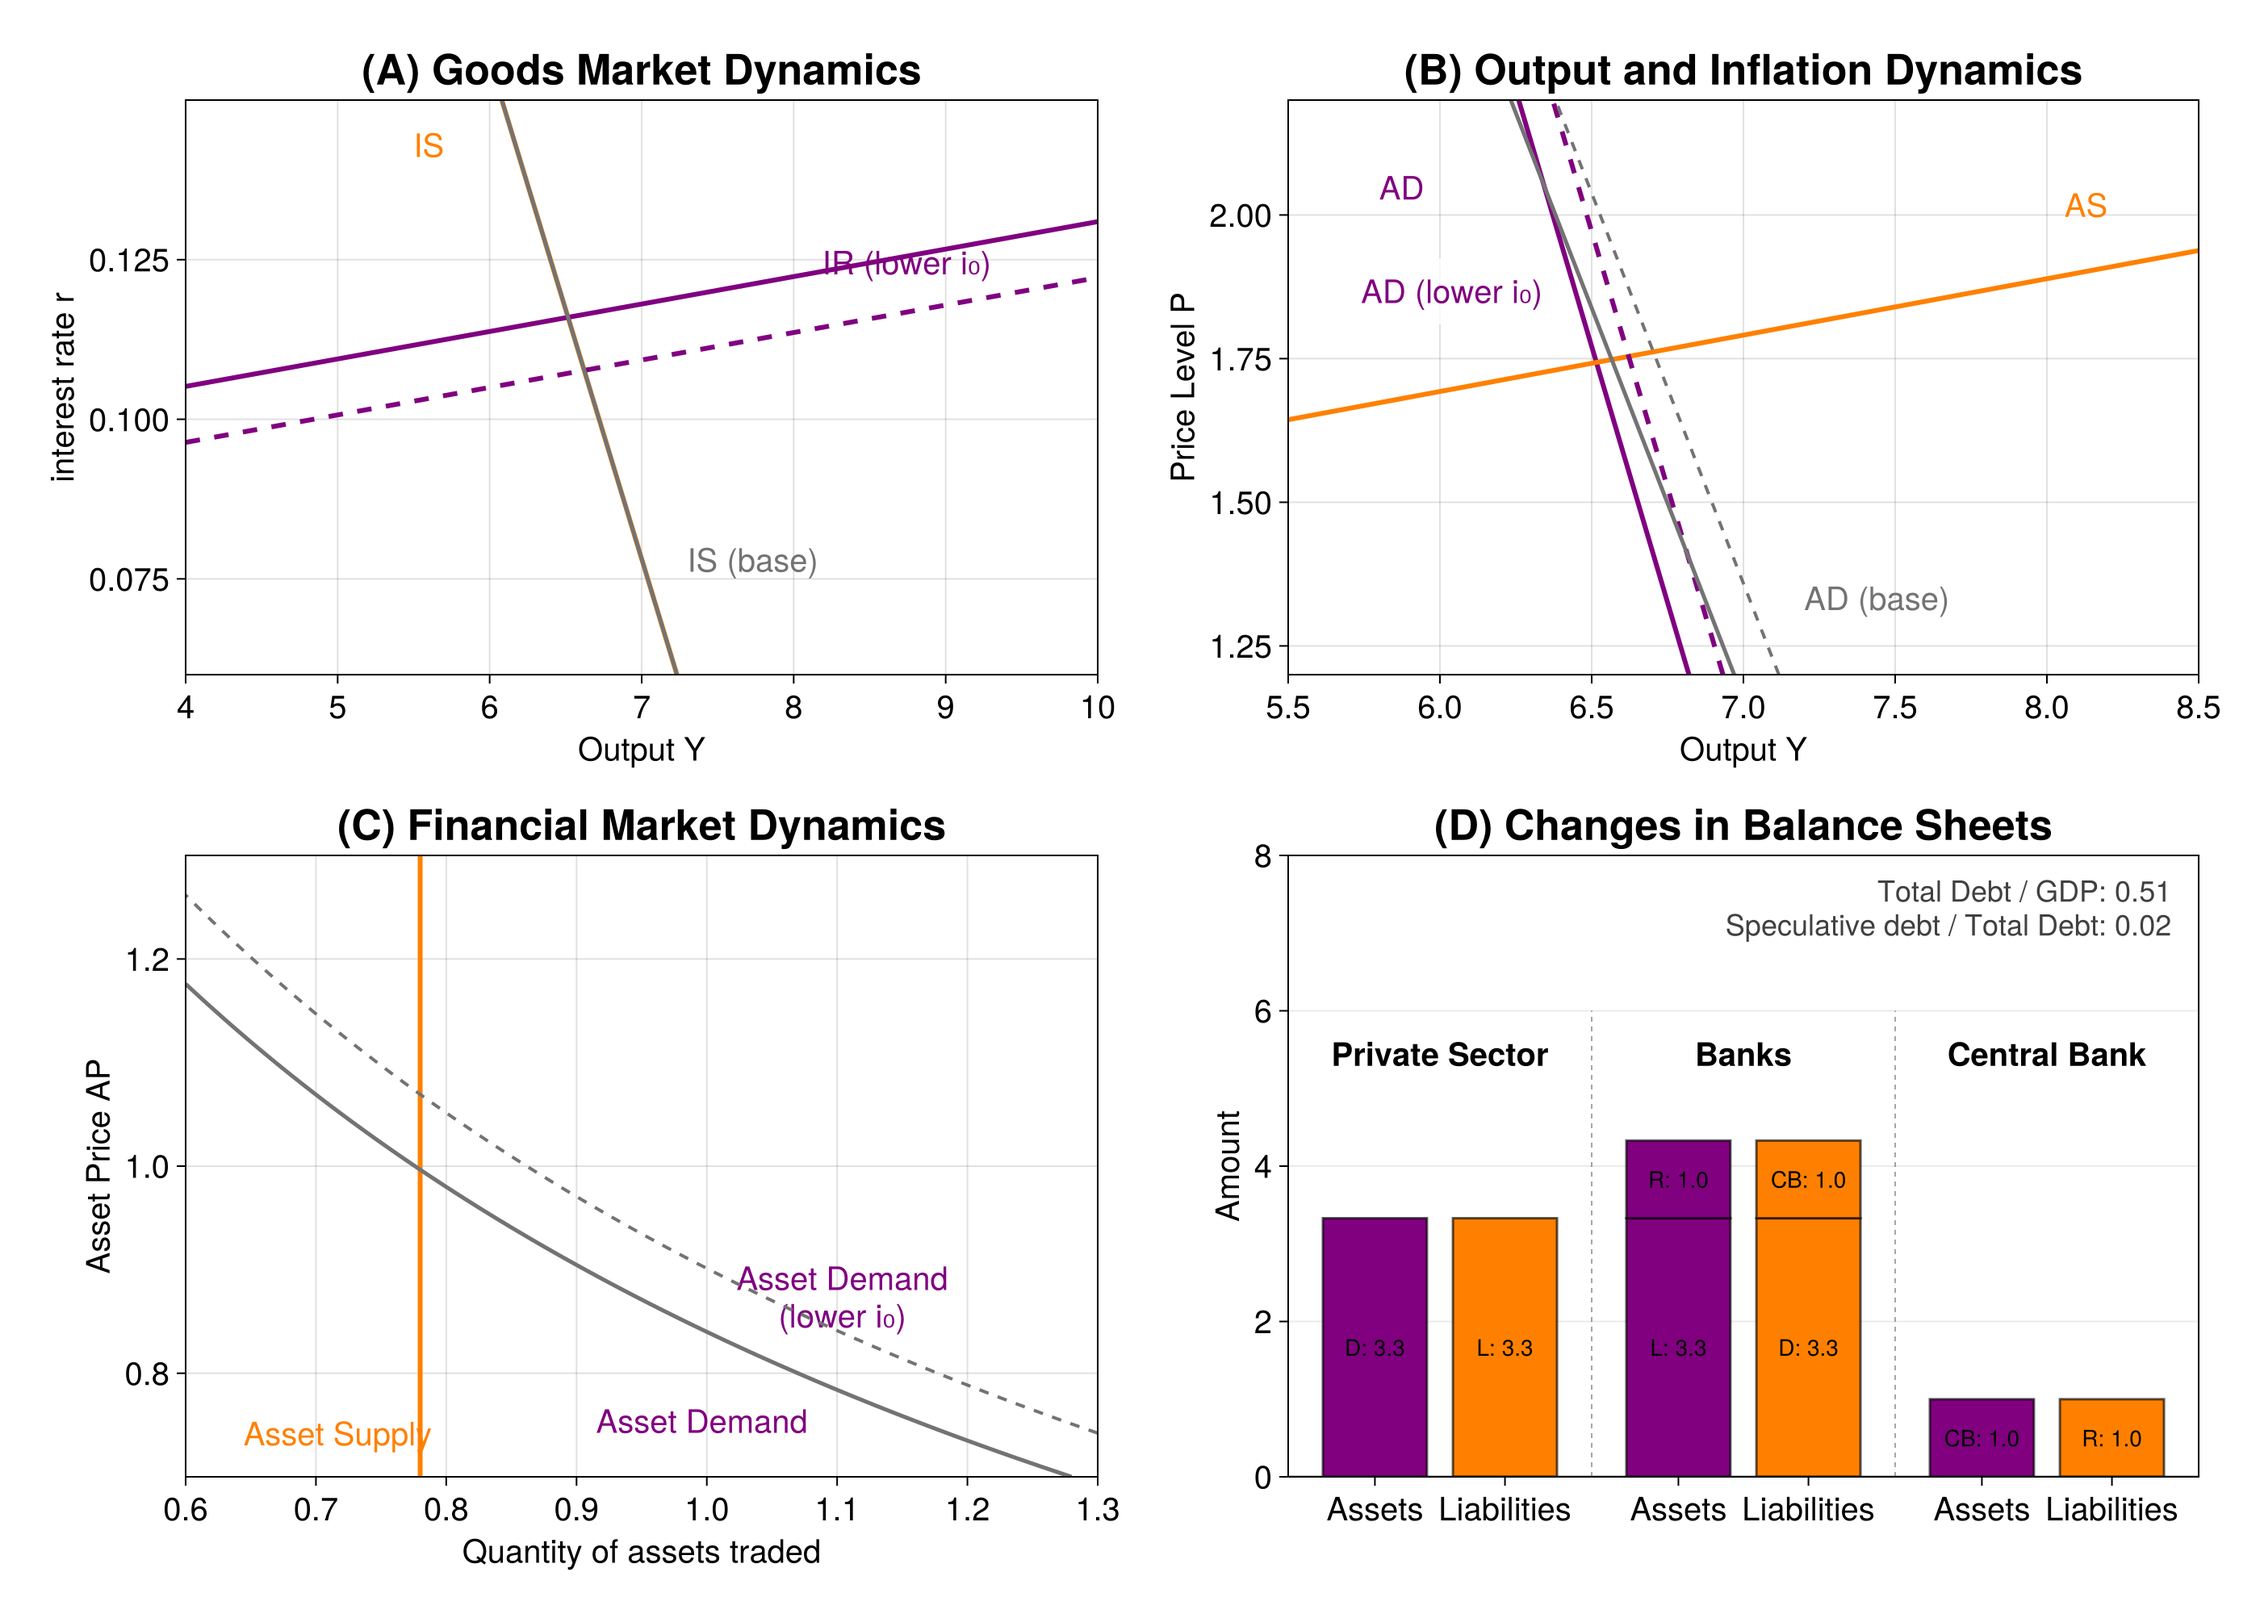
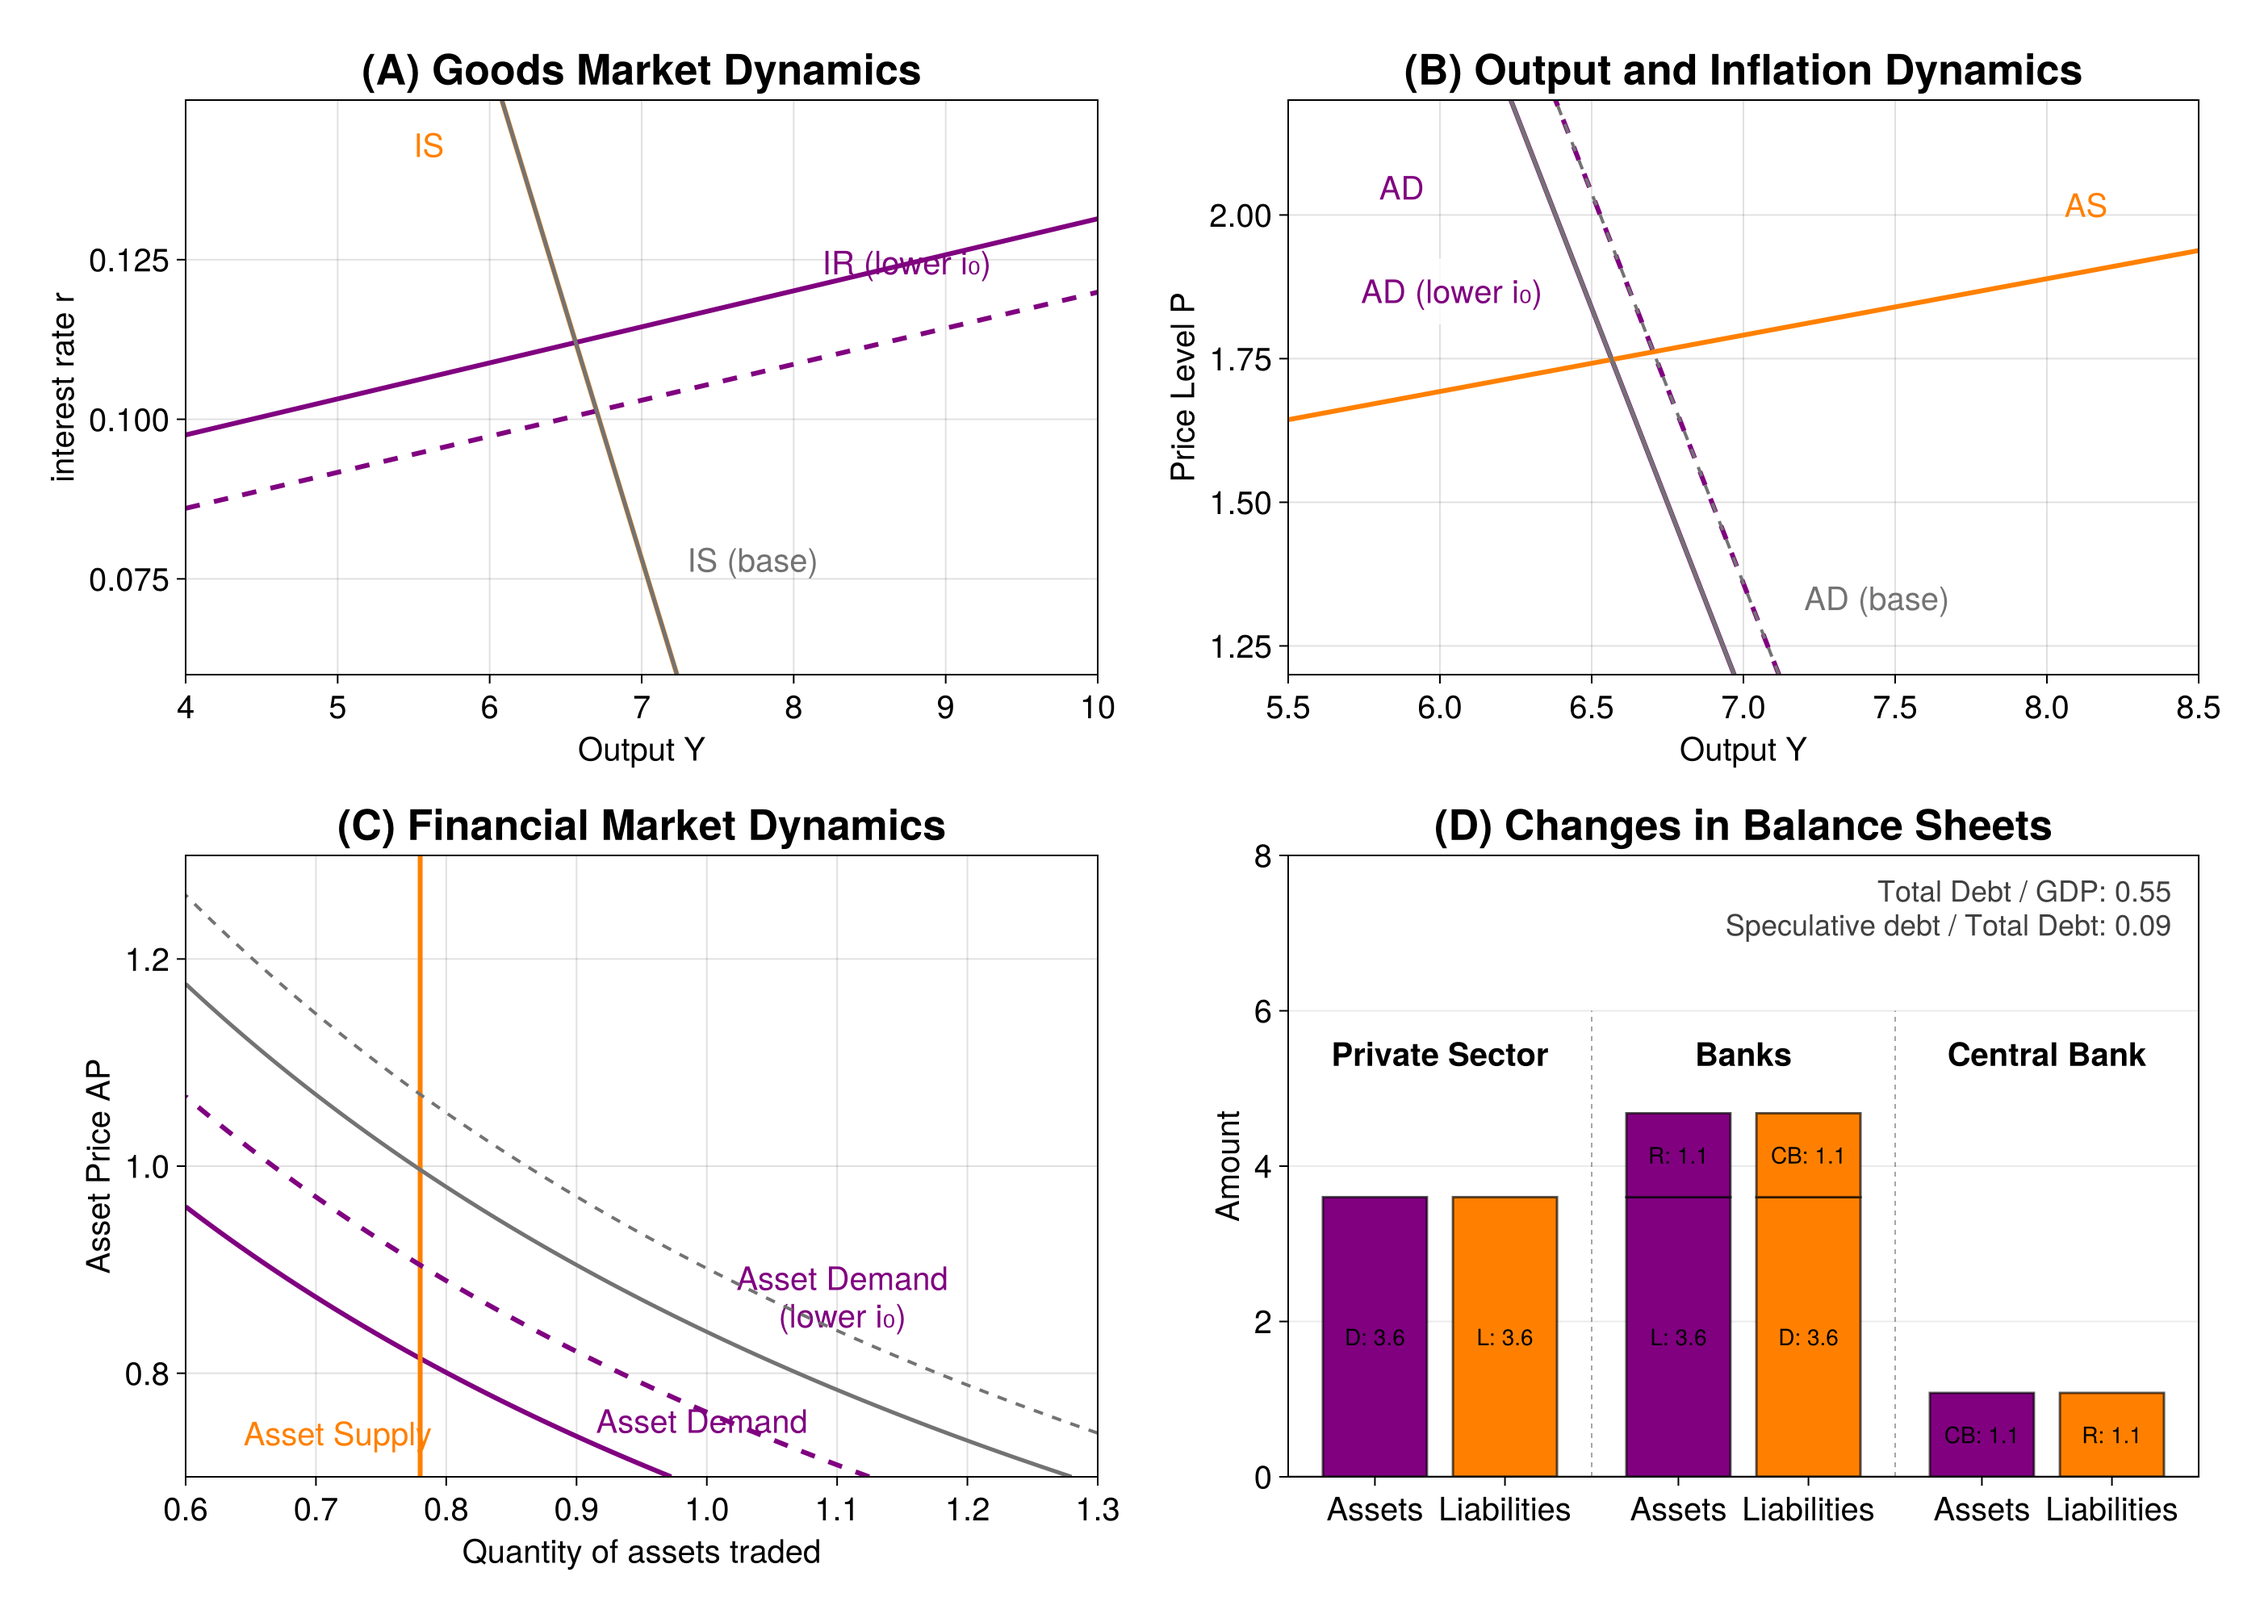
reworded to not include any channel

diff --git a/paper/teaching-note.tex b/paper/teaching-note.tex
@@ -528,7 +528,7 @@ Finally, we switch perspectives in section \ref{subsec:speculation} further belo
 
 \subsection{Dampening the impact of speculation by means of a dual interest rates} \label{subsec:dual_interest}
 
-Building on the central bank  channel developed in Section \ref{subsec:central_bank}, we examine a specific policy scenario in which regulatory constraints lead banks to price asset-market credit differently from productive credit.
+We examine a specific policy scenario in which regulatory constraints lead banks to price asset-market credit differently from productive credit.
 The underlying intuition is that of "dual interest rates". That means the monetary authority distiguishes between credit uses with the intent to keep credits for productive purposes cheap compared to credits for speculative assets.
 Although concrete dual interest policies are not (yet) a established instrument in practice certain regulatory practices produce results that would be akin to this.
 
@@ -550,16 +550,12 @@ Speculative demand is therefore given as
   SD = s_0 - s_1 r_{AP} - s_2 (AP - 1) = s_0 - s_1 i_{AP} r - s_2 (AP - 1).
 \end{equation}
 
-Thus, a higher $i_{AP}$ reduces speculative borrowing and, consequently, speculative debt. Because
-the central bank channel is active in this scenario, the resulting decline in asset prices feeds
-back into the policy rule (Eq.~\ref{eq:i-ap}): the lending rate $r$ falls, which lowers financing
-costs for productive investment relative to the central-bank scenario of
-Section~\ref{subsec:central_bank}. At the same time, lower speculative demand depresses the asset
+Thus, a higher $i_{AP}$ reduces speculative borrowing and, consequently, speculative debt. Lower speculative demand depresses the asset
 price itself, given the fixed supply of assets (Eq.~\ref{eq:as}); the effect is visible in the
-asset price of $AP = 0.18$, compared to $0.87$ in the central-bank scenario.
+asset price of $AP = 0.81$, compared to $0.99$ in the baseline model.
 
 This mechanism is reflected in Figure~\ref{fig:pqcrdiff-equilibrium}: for $i_{AP} = 2$, the risk
-indicator $\psi$ falls from $0.10$ to $0.02$, while GDP rises from $6.32$ to $6.51$.
+indicator $\psi$ falls from $0.10$ to $0.09$, while GDP stays constant.
 
 \begin{figure}[htbp]
   \centering
